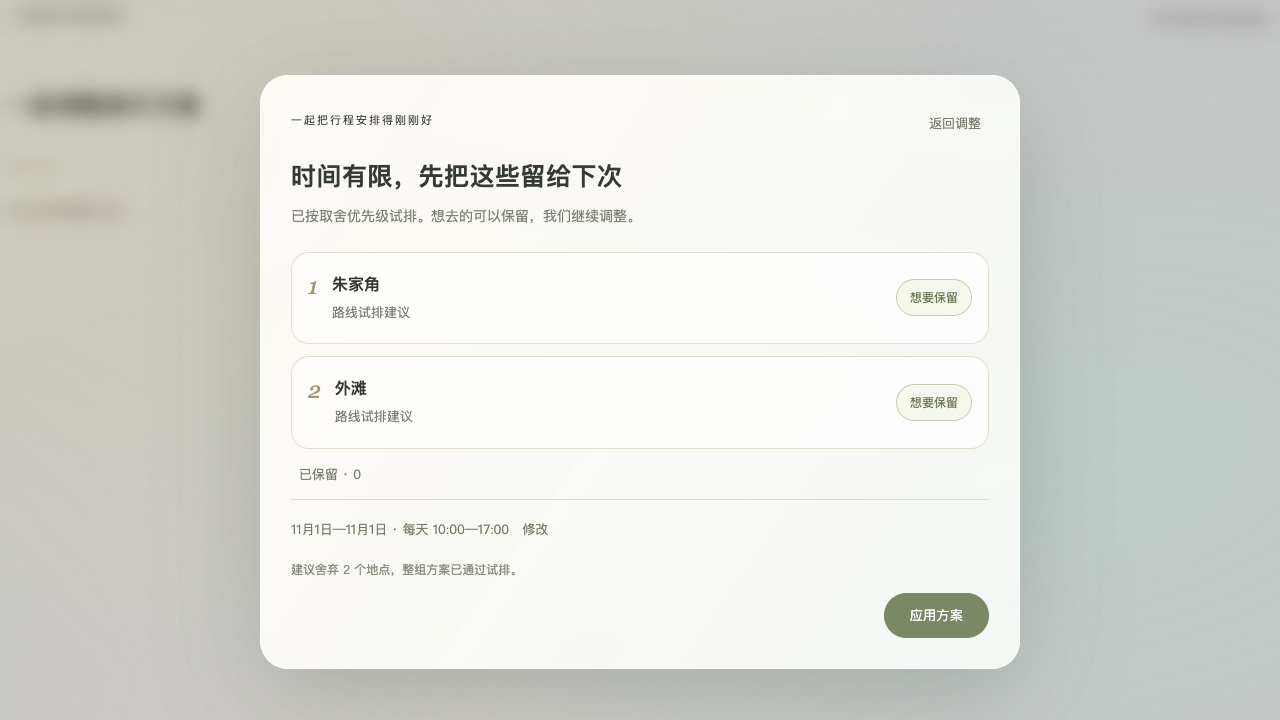
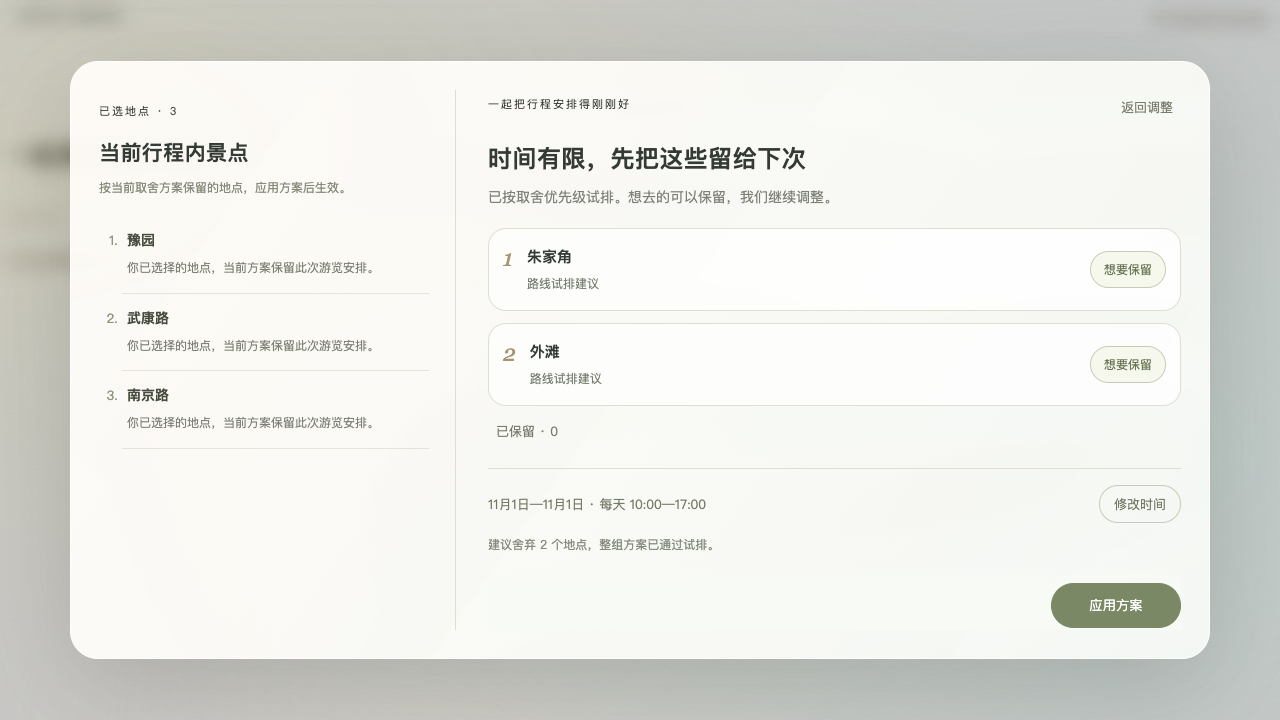
更新景点取舍双栏面板并修复全高AI栏内容裁切

diff --git a/src/planning/ui.css b/src/planning/ui.css
@@ -81,3 +81,9 @@
 @keyframes conversation-light-drift{0%{transform:translate(-3%,-2%) scale(1)}50%{transform:translate(3%,1%) scale(1.06)}100%{transform:translate(-1%,4%) scale(1.02)}}
 @keyframes conversation-light-sheen{from{transform:translate(-9%,4%) rotate(-8deg);opacity:.5}to{transform:translate(10%,-5%) rotate(8deg);opacity:.95}}
 @media(prefers-reduced-motion:reduce){#planning-panel.conversation-shell::before,#planning-panel.conversation-shell::after{animation:none;will-change:auto}}
+
+/* Negotiation uses one page scroll; both columns stay fully expanded. */
+.negotiation-overlay{align-items:flex-start;box-sizing:border-box}
+.negotiation-panel.conversation-advice{display:grid;grid-template-columns:minmax(270px,.85fr) minmax(0,1.65fr);gap:32px;width:min(1140px,100%);max-height:none;overflow:visible;margin:auto;border-radius:28px;padding:28px}
+.negotiation-main{min-width:0}.negotiation-main h2{font-size:24px}.negotiation-retained{min-width:0;padding:8px 26px 8px 0;border-right:1px solid #dedfce}.negotiation-retained h2{font-size:21px;margin:18px 0 10px}.negotiation-retained-note{font-size:12px;color:#858b7b;line-height:1.8;margin:0 0 18px}.negotiation-retained-list{padding-left:23px;margin:0}.negotiation-retained-list li{padding:14px 0 14px 5px;border-bottom:1px solid #e4e5d9;color:#8c947b;font-size:13px}.negotiation-retained-list strong{font-size:14px;font-weight:600;color:#454c3e}.negotiation-retained-list p{font-size:12px;color:#7c8075;line-height:1.8;margin:7px 0 0}.negotiation-main .negotiation-row{padding:16px 14px}.negotiation-main .negotiation-copy strong{font-size:15px}.negotiation-main .negotiation-copy p{font-size:12px}.negotiation-main .negotiation-subtitle{margin-bottom:18px}
+@media(max-width:720px){.negotiation-panel.conversation-advice{grid-template-columns:minmax(0,1fr);gap:22px;padding:22px 16px;max-height:none}.negotiation-retained{padding:0 0 20px;border-right:0;border-bottom:1px solid #dedfce}.negotiation-retained h2{font-size:19px}.negotiation-retained-list{display:grid;grid-template-columns:repeat(2,minmax(0,1fr));gap:0 22px}.negotiation-retained-list li{overflow-wrap:anywhere}.negotiation-overlay{align-items:flex-start}}

diff --git a/src/views/CustomizeView.vue b/src/views/CustomizeView.vue
@@ -62,4 +62,30 @@ function generated(it){store.checkedIds=[...it.context.selectedPoiIds];router.pu
  .planning-sidebar :deep(.conversation-footer){position:relative;flex-shrink:0;padding:12px 0 0;margin-top:16px}
 }
 
+
+/* Use the whole available viewport; reserve space for generation status. */
+@media(min-width:960px){
+ .planning-sidebar{top:100px;height:auto;min-height:calc(100dvh - 112px);max-height:none}
+ .planning-sidebar :deep(#planning-panel.conversation-shell){flex:1 0 auto;height:auto;min-height:calc(100dvh - 112px);max-height:none;overflow:clip;padding:20px;display:flex;flex-direction:column}
+ .planning-sidebar :deep(.conversation-composer){margin-top:auto;padding-top:12px}
+ .planning-sidebar :deep(.conversation-tokens){margin:10px 0 14px}
+ .planning-sidebar :deep(.conversation-options){margin:12px 0;min-height:0}
+ .planning-sidebar :deep(.conversation-question h2){margin-bottom:8px}
+ .planning-sidebar :deep(.conversation-footer){margin-top:10px;padding-top:6px}
+ .planning-sidebar :deep(.tourist-schedule-cards){gap:6px;margin:6px 0}
+ .planning-sidebar :deep(.tourist-schedule-card){padding:9px 12px}
+ .planning-sidebar :deep(.conversation-shell.is-generating .conversation-composer),
+ .planning-sidebar :deep(.conversation-shell.is-generating .conversation-footer),
+ .planning-sidebar :deep(.conversation-shell.is-generating .conversation-options){display:none}
+ .planning-sidebar :deep(.conversation-generation){flex-shrink:0;margin-top:14px;padding:14px}
+ .planning-sidebar :deep(.conversation-shell > *){flex-shrink:0}
+}
+@media(min-width:960px) and (max-height:800px){
+ .planning-sidebar :deep(#planning-panel.conversation-shell){padding:16px}
+ .planning-sidebar :deep(.conversation-choice){padding:8px 13px}
+ .planning-sidebar :deep(.conversation-input-well){padding:4px 12px}
+ .planning-sidebar :deep(.conversation-tokens){gap:5px;margin:6px 0 10px}
+ .planning-sidebar :deep(.conversation-question h2){font-size:21px}
+}
+
 </style>
